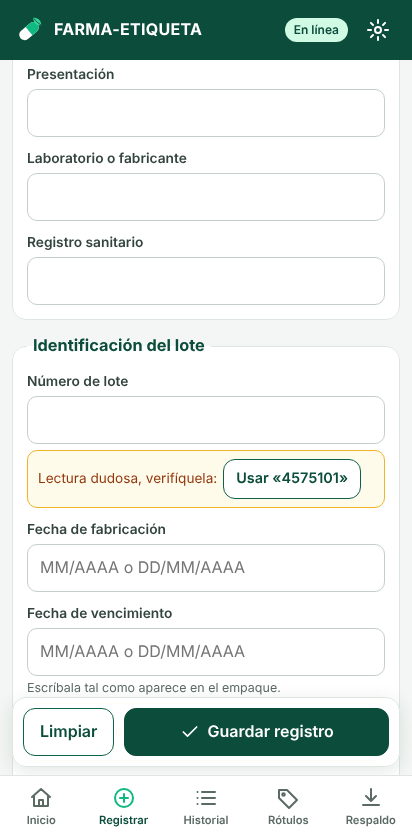
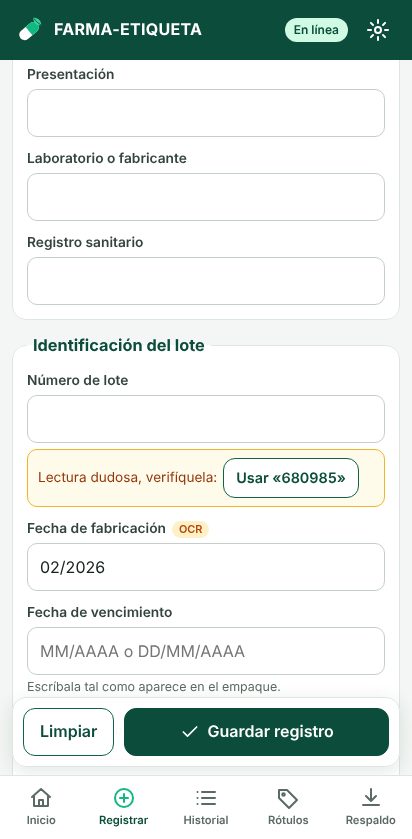
Publicar 1.11.0

diff --git a/js/form.js b/js/form.js
@@ -7,6 +7,7 @@ import { extractFields, extractZone, dateOK } from './extract.js';
 import { liveScan } from './live.js';
 import { readBoxes, mergeBoxes } from './boxes.js';
 import { readRelief, voteRelief, readReliefAuto } from './relief.js';
+import { readTiles } from './tiles.js';
 
 export const FIELDS = [
   ['nombre', 'Nombre del producto'], ['codigoBarras', 'Código de barras'], ['principioActivo', 'Principio activo'],
@@ -150,7 +151,7 @@ async function analyze(source, extras = true, side = 2600) {
     }
     if (!res) res = await recognize(canvas, busy);
     const o = { ...extractFields(res.lines), res, onlineErr };
-    if (extras) await morePasses(canvas, o, busy);
+    if (extras) await morePasses(canvas, o, busy, () => true, source);
     return o;
   } finally { freeCanvas(canvas); }
 }
@@ -158,7 +159,7 @@ async function analyze(source, extras = true, side = 2600) {
 // Lecturas adicionales solo si faltan lote o vencimiento: suelen estar impresos aparte, por puntos o con poco contraste.
 // alive() permite cancelarlas entre una lectura y otra (por ejemplo, si el usuario cambió de foto).
 const LD = ['lote', 'vencimiento', 'fechaFabricacion'];
-async function morePasses(canvas, o, prog, alive = () => true) {
+async function morePasses(canvas, o, prog, alive = () => true, hiSrc = null) {
   const miss = f => !o.fields.some(x => x.field === f && !x.doubt);
   const need = () => alive() && (miss('lote') || miss('vencimiento'));
   const merge = (r, note, doubt, anyHit = false) => {
@@ -172,6 +173,23 @@ async function morePasses(canvas, o, prog, alive = () => true) {
   // Primero las casillas impresas (L, F, V): recortes pequeños, rápidos de leer.
   if (alive()) { try { mergeBoxes(o.fields, await readBoxes(canvas, t => prog(t))); } catch { /* sin casillas legibles */ } if (!miss('vencimiento')) o.warnings = []; }
   if (need()) merge(await recognize(canvas, (t, f) => prog('Segunda lectura (lote y fechas)…', f), true), 'Detectado en una segunda lectura de la imagen.', false);
+  // Texto pequeño o aislado que la lectura de la página completa no detectó: lectura por partes ampliadas.
+  if (need()) {
+    try {
+      const t = await readTiles(canvas, x => prog(x), alive, hiSrc);
+      const e1 = extractFields(t.lines).fields, e2 = t.alt ? extractFields(t.alt).fields : [];
+      for (const f of LD) {
+        const a = e1.find(x => x.field === f), b = e2.find(x => x.field === f);
+        if (!miss(f) || !a) continue;
+        const differ = b && b.value.replace(/\s/g, '') !== a.value.replace(/\s/g, '');
+        const hit = { ...a, doubt: a.doubt || differ, checked: !(a.doubt || differ), alt: differ ? b.value : null,
+          notes: [...a.notes, 'Leído en una zona ampliada de la foto.', ...(differ ? [`Otra lectura de la misma zona dio «${b.value}»: confusión probable entre letras y números (B/8, O/0, G/6). Elija la que coincide con el empaque.`] : [])] };
+        o.fields = o.fields.filter(x => x.field !== f).concat(hit);
+        if (f === 'vencimiento') o.warnings = [];
+      }
+      o.res.text += '\n— Lectura por partes —\n' + t.lines.map(l => l.text).join('\n');
+    } catch { /* sin texto adicional */ }
+  }
   // Lote y fechas EN RELIEVE (troquelados sin tinta): siempre quedan pendientes de revisión, nunca se dan por seguros.
   if (need()) {
     try {
@@ -206,11 +224,11 @@ async function runOCR(extra = null) {
 
 // ---- Llenado automático: al elegir la foto el formulario se completa solo ----
 function clearSuggestions() { $$('#product-form .sugg').forEach(e => e.remove()); }
-function suggest(field, value, note) {
+function suggest(field, value, note, alt = null) {
   const box = input(field)?.parentElement; if (!box) return;
   box.querySelector('.sugg')?.remove();
-  box.append(h('div', { class: 'sugg' }, h('span', {}, note + ' '),
-    h('button', { type: 'button', class: 'btn small', onclick: e => { setField(field, value, 'ocr'); chips(); scheduleDraft(); e.target.closest('.sugg').remove(); } }, `Usar «${value}»`)));
+  const use = v => h('button', { type: 'button', class: 'btn small', onclick: e => { setField(field, v, 'ocr'); chips(); scheduleDraft(); e.target.closest('.sugg').remove(); } }, `Usar «${v}»`);
+  box.append(h('div', { class: 'sugg' }, h('span', {}, note + ' '), use(value), alt && alt !== value ? use(alt) : null));
 }
 export async function autoFill(tStart) {
   if (!st.photo) { toast('Primero seleccione una fotografía.', 'warn'); return; }
@@ -290,13 +308,13 @@ async function background(r, seq, missing) {
   let canvas;
   try {
     canvas = await withPhoto(src => blobToCanvas(src, 2600));
-    await morePasses(canvas, r, prog, alive);
+    await morePasses(canvas, r, prog, alive, st.src || st.photo?.blob);
   } catch { /* se informa abajo como «no encontrado» */ } finally { freeCanvas(canvas); }
   if (!alive()) return;
   const found = [];
   for (const f of r.fields.filter(x => LD.includes(x.field) && !before.has(x.field))) {
     if (input(f.field).value.trim()) continue;                       // nunca pisa lo que ya escribió o aceptó el usuario
-    if (f.doubt) suggest(f.field, f.value, 'Lectura dudosa, verifíquela:'); else { setField(f.field, f.value, 'ocr'); found.push(label[f.field]); }
+    if (f.doubt) suggest(f.field, f.value, f.alt ? 'Dos lecturas posibles, elija la que coincide con el empaque:' : 'Lectura dudosa, verifíquela:', f.alt); else { setField(f.field, f.value, 'ocr'); found.push(label[f.field]); }
   }
   chips(); scheduleDraft();
   const hasSugg = k => !!input(k).parentElement.querySelector('.sugg');

diff --git a/js/extract.js b/js/extract.js
@@ -91,9 +91,23 @@ export function boxLabels(lines) {
 const clean = s => s.replace(/\s+/g, ' ').replace(/^[\s:.\-–|]+|[\s:.\-–|,;]+$/g, '').trim();
 const LOW = 60, OK = 80;
 
+const MFIX = [[/\bAG[O0Q](?=[\s\/\-.]?\d{2,4}\b)/gi, 'AGO'], [/\bA6[O0](?=[\s\/\-.]?\d{2,4}\b)/gi, 'AGO'], [/\b[O0]CT(?=[\s\/\-.]?\d{2,4}\b)/gi, 'OCT'], [/\bN[O0]V(?=[\s\/\-.]?\d{2,4}\b)/gi, 'NOV'],
+  [/\bF[E3]B(?=[\s\/\-.]?\d{2,4}\b)/gi, 'FEB'], [/\bS[E3]P(?=[\s\/\-.]?\d{2,4}\b)/gi, 'SEP'], [/\bD[I1l]C(?=[\s\/\-.]?\d{2,4}\b)/gi, 'DIC'], [/\bEN[E3](?=[\s\/\-.]?\d{2,4}\b)/gi, 'ENE']];
+// Mes escrito con letras (FEB, FEBRERO, AGO, AUG…) → número: «FEB2026» → «02/2026», «15 MAR 2027» → «15/03/2027».
+// El año se deja tal como está impreso. Si no hay mes en letras, la fecha se devuelve sin cambios.
+const MNUM = { ENE: 1, JAN: 1, FEB: 2, MAR: 3, ABR: 4, APR: 4, MAY: 5, JUN: 6, JUL: 7, AGO: 8, AUG: 8, SEP: 9, SET: 9, OCT: 10, NOV: 11, DIC: 12, DEC: 12 };
+export function monthToNumber(s) {
+  const w = (s.match(/[A-Za-zÁÉÍÓÚáéíóú]{3,}/) || [''])[0], n = MNUM[w.slice(0, 3).toUpperCase()];
+  if (!n) return s;
+  const nums = s.match(/\d+/g) || [], year = nums[nums.length - 1];
+  if (!year || year.length < 2) return s;
+  const before = s.slice(0, s.indexOf(w)).match(/\d{1,2}/);
+  return (before ? before[0].padStart(2, '0') + '/' : '') + String(n).padStart(2, '0') + '/' + year;
+}
+const fixMonth = t => MFIX.reduce((s, [re, m]) => s.replace(re, m), t);
 const unspace = t => t.replace(/(^|[\s:])([0-9](?: [0-9A-Z\/\-.]){3,})(?=$|\s)/g, (m, a, b) => /\d.*\d/.test(b) ? a + b.replace(/ /g, '') : m);
 export function extractFields(lines) {
-  lines = boxLabels(lines.map(l => ({ text: unspace((l.text || '').replace(/\s+/g, ' ').trim()), conf: l.conf ?? null, height: l.height || 0 })))
+  lines = boxLabels(lines.map(l => ({ text: fixMonth(unspace((l.text || '').replace(/\s+/g, ' ').trim())), conf: l.conf ?? null, height: l.height || 0 })))
     .map(l => ({ ...l, text: clean(l.text) })).filter(l => l.text.length > 1);
   // Rótulos en tabla: una fila de encabezados («LOTE  FAB  VENCE») y debajo la fila de valores. Se reordenan como «etiqueta: valor».
   for (let i = 0; i + 1 < lines.length; i++) {
@@ -113,6 +127,10 @@ export function extractFields(lines) {
   const out = [], used = new Set(), warnings = [];
   const add = (field, label, value, i, notes = [], forceDoubt = false) => {
     value = clean(value); if (!value) return;
+    if (field === 'vencimiento' || field === 'fechaFabricacion') {
+      const num = monthToNumber(value);
+      if (num !== value) { notes = [...notes, `En el empaque dice «${value}» (mes en letras): se convirtió a número.`]; value = num; }
+    }
     const conf = lines[i]?.conf ?? null;
     // Una fecha con mes o año imposibles («85/2027») es una lectura errónea: se muestra, pero nunca se premarca.
     if ((field === 'vencimiento' || field === 'fechaFabricacion') && ym(value) == null) { notes.push('La fecha leída no parece válida (mes o año fuera de rango): probablemente está mal leída.'); forceDoubt = true; }
@@ -248,7 +266,7 @@ export function extractFields(lines) {
 
   // --- Nombre: la línea de texto más grande entre las legibles que no son lote/fecha/registro/laboratorio ---
   const letters = s => (s.match(/[A-Za-zÁÉÍÓÚÑáéíóúñ]/g) || []).length;
-  const cand = lines.map((l, i) => ({ l, i })).filter(({ l, i }) => !used.has(i) && !HEAD.some(([, re]) => re.test(l.text)) && letters(l.text) >= 3 && letters(l.text) / l.text.length > .55 && (l.conf == null || l.conf >= LOW));
+  const cand = lines.map((l, i) => ({ l, i })).filter(({ l, i }) => !used.has(i) && !HEAD.some(([, re]) => re.test(l.text)) && letters(l.text) >= 3 && letters(l.text) / l.text.length > .55 && l.text.length <= 45 && l.text.split(' ').length <= 6 && (l.conf == null || l.conf >= LOW));
   let nameI = -1;
   if (cand.length) {
     const best = cand.reduce((a, b) => (b.l.height > a.l.height * 1.05 ? b : a));
@@ -297,7 +315,7 @@ function fixLabels(text) {
 const ZKEY = /^(LOTE?|LOT|BATCH|VENCE|VENC|VTO|EXP|CAD|FAB|MFG|MFD|ELAB|FECHA|DATE|DE|NO|N[°º]?)$/i;
 // Devuelve {lote, fechaFabricacion, vencimiento}: cada uno {value, labelled} o ausente.
 export function extractZone(lines) {
-  const ls = boxLabels(lines.map(l => ({ ...l, text: unspace((l.text || '').replace(/\s+/g, ' ').trim()) }))).map(l => ({ ...l, text: fixLabels(clean(l.text)) })).filter(l => l.text.length > 1);
+  const ls = boxLabels(lines.map(l => ({ ...l, text: fixMonth(unspace((l.text || '').replace(/\s+/g, ' ').trim())) }))).map(l => ({ ...l, text: fixLabels(clean(l.text)) })).filter(l => l.text.length > 1);
   const out = {};
   for (const f of extractFields(ls).fields) if (['lote', 'fechaFabricacion', 'vencimiento'].includes(f.field) && !f.doubt && !out[f.field]) out[f.field] = { value: f.value, labelled: true };
   // Sin etiqueta legible: en la zona marcada, las fechas válidas y el código alfanumérico restante son los candidatos.
@@ -319,6 +337,7 @@ export function extractZone(lines) {
     const tok = rest.split(/[\s:;,|]+/).map(t => t.replace(/^[.\-]+|[.\-]+$/g, '')).find(t => /^[A-Z0-9][A-Z0-9\-\/]{2,15}$/i.test(t) && /\d/.test(t) && !ZKEY.test(t));
     if (tok) out.lote = { value: tok };
   }
+  for (const f of ['fechaFabricacion', 'vencimiento']) if (out[f]) out[f].value = monthToNumber(out[f].value);
   return out;
 }
 export const dateOK = s => ym(s) != null;

diff --git a/js/tiles.js b/js/tiles.js
@@ -1,0 +1,61 @@
+// Texto pequeño y aislado (lote y fechas impresos junto al código de barras, en una esquina…): la lectura de la página
+// completa a veces ni lo detecta. Aquí la foto se lee por partes ampliadas (cuadrícula con solape), saltando las zonas
+// lisas. Si aparecen renglones de lote o fechas, esa zona se recorta, se amplía y se lee de nuevo con dos tratamientos
+// (normal y realzado) para detectar confusiones típicas (B/8, O/0, G/6): si las dos lecturas difieren, el dato queda dudoso.
+import { recognize } from './ocr.js';
+import { enhance, freeCanvas } from './photos.js';
+
+const LABEL = /(?:^|[\s\[\(|])(?:[LFV](?=\s?[\]\)|]?\s?[.:\-]\s?\S)|L[O0]TE?|BATCH|VENC\w*|VENCE|VTO|EXP\w*|CAD\w*|FAB\w*|ELAB\w*|MFG)/i;
+
+// ¿Tiene la zona bordes suficientes para contener texto? (descarta fondos lisos o desenfocados).
+function busy(src, x, y, w, h) {
+  const c = document.createElement('canvas'), k = Math.min(1, 220 / Math.max(w, h));
+  c.width = Math.max(2, Math.round(w * k)); c.height = Math.max(2, Math.round(h * k));
+  const cx = c.getContext('2d', { willReadFrequently: true }); cx.drawImage(src, x, y, w, h, 0, 0, c.width, c.height);
+  const d = cx.getImageData(0, 0, c.width, c.height).data; let e = 0;
+  for (let i = 4; i < d.length; i += 4) if (Math.abs(d[i] - d[i - 4]) > 40) e++;
+  c.width = c.height = 0;
+  return e / (c.width * c.height || (d.length / 4)) > 0.015;
+}
+function crop(src, x, y, w, h, k) {
+  const c = document.createElement('canvas'); c.width = Math.round(w * k); c.height = Math.round(h * k);
+  const cx = c.getContext('2d'); cx.imageSmoothingQuality = 'high'; cx.drawImage(src, x, y, w, h, 0, 0, c.width, c.height);
+  return c;
+}
+
+// Devuelve { lines, alt } — alt: lectura realzada de la zona de lote/fechas (null si no se encontró esa zona).
+// hi: la misma foto a resolución completa (Blob), para releer la zona de lote y fechas con todo el detalle.
+export async function readTiles(src, progress = () => {}, alive = () => true, hi = null, cols = 2, rows = 3) {
+  const W = src.width, H = src.height, tw = W / cols * 1.2, th = H / rows * 1.2, K = 2, all = [];
+  let n = 0;
+  for (let r = 0; r < rows; r++) for (let c = 0; c < cols; c++) {
+    if (!alive()) return { lines: all, alt: null };
+    n++;
+    const x = Math.max(0, Math.min(W - tw, c * W / cols - tw * 0.08)), y = Math.max(0, Math.min(H - th, r * H / rows - th * 0.08));
+    if (!busy(src, x, y, tw, th)) continue;
+    progress(`Leyendo la foto por partes (${n} de ${cols * rows})…`);
+    const cv = crop(src, x, y, tw, th, K);
+    try {
+      const res = await recognize(cv, () => {}, '11');
+      for (const l of res.lines) all.push({ ...l, box: l.bbox && { x: x + l.bbox.x0 / K, y: y + l.bbox.y0 / K, x1: x + l.bbox.x1 / K, y1: y + l.bbox.y1 / K } });
+    } finally { freeCanvas(cv); }
+  }
+  // Zona de lote y fechas: renglones con etiqueta (L. F. V. LOTE VENCE…) cercanos entre sí.
+  const lab = all.filter(l => l.box && LABEL.test(l.text) && /\d/.test(l.text));
+  if (!lab.length || !alive()) return { lines: all, alt: null };
+  const lh = Math.max(...lab.map(l => l.box.y1 - l.box.y)) || 20;
+  const ref = lab[0].box, near = lab.filter(l => Math.abs(l.box.y - ref.y) < lh * 6 && Math.abs(l.box.x - ref.x) < lh * 12);
+  const x0 = Math.min(...near.map(l => l.box.x)) - lh, y0 = Math.min(...near.map(l => l.box.y)) - lh;
+  const x1 = Math.max(...near.map(l => l.box.x1)) + lh, y1 = Math.max(...near.map(l => l.box.y1)) + lh;
+  const rx = Math.max(0, x0), ry = Math.max(0, y0), rw = Math.min(W, x1) - rx, rh = Math.min(H, y1) - ry;
+  progress('Releyendo lote y fechas ampliados…');
+  let big = null, s = 1;
+  try { if (hi instanceof Blob) { big = await createImageBitmap(hi); s = big.width / W; if (s < 1.05) { big.close(); big = null; s = 1; } } } catch { big = null; s = 1; }
+  const k = Math.min(4, 45 / (lh * s));                        // renglones de ~45 px: el tamaño que mejor lee Tesseract
+  const zc = crop(big || src, rx * s, ry * s, rw * s, rh * s, k), ec = enhance(zc);
+  big?.close();
+  try {
+    const a = await recognize(zc, () => {}, '6'), b = await recognize(ec, () => {}, '6');
+    return { lines: [...a.lines, ...all], alt: b.lines };
+  } finally { freeCanvas(zc); freeCanvas(ec); }
+}

diff --git a/sw.js b/sw.js
@@ -3,12 +3,12 @@
 // - Guarda los recursos OCR la primera vez que se usan (caché separada que NO se borra al actualizar).
 // - Nunca toca IndexedDB: actualizar la aplicación no elimina registros ni fotografías.
 // Para publicar una versión nueva, cambie VERSION.
-const VERSION = '1.10.0';
+const VERSION = '1.11.0';
 const SHELL = 'fe-shell-' + VERSION;
 const OCR = 'fe-ocr-v2';
 const FILES = [
   './', 'index.html', 'manifest.webmanifest', 'css/app.css',
-  'js/app.js', 'js/ui.js', 'js/db.js', 'js/photos.js', 'js/ocr.js', 'js/extract.js', 'js/form.js', 'js/live.js', 'js/boxes.js', 'js/relief.js',
+  'js/app.js', 'js/ui.js', 'js/db.js', 'js/photos.js', 'js/ocr.js', 'js/extract.js', 'js/form.js', 'js/live.js', 'js/boxes.js', 'js/relief.js', 'js/tiles.js',
   'js/history.js', 'js/labels.js', 'js/labelsview.js', 'js/backup.js', 'js/settings.js',
   'icons/icon.svg', 'icons/icon-192.png', 'icons/icon-512.png', 'icons/apple-touch-icon.png',
   'vendor/lib/JsBarcode.all.min.js', 'vendor/lib/jspdf.umd.min.js', 'vendor/lib/docx.iife.min.js',

diff --git a/js/boxes.js b/js/boxes.js
@@ -6,7 +6,7 @@
 // 4) Si algo no es seguro (letra dudosa, valor dudoso, letras repetidas con valores distintos, fabricación ≥ vencimiento),
 //    el dato queda pendiente de revisión: nunca se intercambian ni se completan valores.
 import { recognize } from './ocr.js';
-import { ym, findDates, lotOK } from './extract.js';
+import { ym, findDates, lotOK, monthToNumber } from './extract.js';
 
 const FIELD = { L: ['lote', 'Número de lote'], F: ['fechaFabricacion', 'Fecha de fabricación'], V: ['vencimiento', 'Fecha de vencimiento'] };
 const MAX_BOXES = 8;
@@ -91,7 +91,7 @@ function parseValue(letter, text) {
   const t = clean(text);
   if (letter === 'L') return lotOK(t);
   const d = findDates(t).find(m => ym(m[0]) != null);
-  return d && d.index <= 3 ? d[0] : null;
+  return d && d.index <= 3 ? monthToNumber(d[0]) : null;
 }
 
 // Lee las casillas de la imagen. Devuelve campos con el formato de extractFields: {field, label, value, conf, doubt, notes}.

diff --git a/js/ocr.js b/js/ocr.js
@@ -52,7 +52,7 @@ async function recognizeNow(canvas, progress = () => {}, sparse = false, extra =
     const { data } = await w.recognize(canvas, {}, { text: true, blocks: true });
     const lines = [];
     for (const b of data.blocks || []) for (const p of b.paragraphs || []) for (const l of p.lines || [])
-      lines.push({ text: l.text, conf: l.confidence, height: l.bbox ? l.bbox.y1 - l.bbox.y0 : 0 });
+      lines.push({ text: l.text, conf: l.confidence, height: l.bbox ? l.bbox.y1 - l.bbox.y0 : 0, bbox: l.bbox || null });
     if (!lines.length && data.text) data.text.split('\n').forEach(t => lines.push({ text: t, conf: data.confidence ?? null, height: 0 }));
     return { text: data.text || '', confidence: data.confidence ?? null, lines };
   } catch (e) {

diff --git a/js/settings.js b/js/settings.js
@@ -4,7 +4,7 @@ const appName = () => nativePlatform() === 'ios' ? 'App iPhone / iPad' : 'App An
 import * as db from './db.js';
 import { initOCR, recognizeOnline, OCR_BASE, OCR_CORES } from './ocr.js';
 
-export const APP_VERSION = '1.10.0';
+export const APP_VERSION = '1.11.0';
 const standalone = () => matchMedia('(display-mode: standalone)').matches || navigator.standalone === true;
 const secure = () => self.isSecureContext && 'serviceWorker' in navigator && 'caches' in self;
 let installEvt = null, swReg = null;

diff --git a/js/photos.js b/js/photos.js
@@ -2,7 +2,7 @@
 const MAX_BYTES = 30 * 1024 * 1024;
 const MAX_SIDE = 1800;   // lado mayor de la fotografía guardada
 const QUALITY = 0.82;
-const READ_SIDE = 2600;  // copia en memoria para leer texto y códigos (no se guarda)
+const READ_SIDE = 4000;  // copia en memoria para leer texto pequeño a resolución completa (no se guarda)
 
 async function sniff(file) {
   const b = new Uint8Array(await file.slice(0, 12).arrayBuffer());

diff --git a/README.md b/README.md
@@ -15,6 +15,7 @@ Aplicación web progresiva (PWA) para identificar, registrar y rotular medicamen
 | Pantalla principal | Solo tres opciones: **Escanear fotografía**, **Crear rótulo** e **Historial** (respaldo y configuración quedan en la barra inferior y el engranaje). El lector de códigos de barras se eliminó en la 1.6.0; el código se puede escribir a mano y se dibuja en el rótulo. |
 | Casillas L / F / V | Reconoce casillas impresas con una sola letra (L = lote, F = fabricación, V = vencimiento): por texto («[L] 4B0123», «|V| 05/2027», letras arriba y valores abajo) y por imagen (detecta los recuadros, lee cada letra aparte con contraste aumentado y lee el valor a la derecha o debajo). Si la letra o el valor no son seguros, si se repite una letra con valores distintos o si la fabricación no es anterior al vencimiento, el dato queda pendiente de revisión; nunca se intercambian valores. |
 | Lote y vencimiento en relieve | Para códigos troquelados sin tinta (blanco sobre blanco, caracteres espaciados): realce del relieve (detalle local + umbral con histéresis), detección de renglones, compactación de caracteres, lectura en varias escalas con votación y recorte automático de la zona. Lo leído en relieve SIEMPRE queda como sugerencia pendiente de revisión. Probado con una foto real: vencimiento 09/2027 correcto; el lote salió con el primer dígito errado (4575101 en vez de 1575101), por eso nunca se llena solo. |
+| Meses en letras y texto pequeño | Fechas con el mes en letras (FEB, FEBRERO, AGO, AUG, ENERO…) se convierten a número (FEB2026 → 02/2026, 15 MAR 2025 → 15/03/2025); las numéricas quedan como están. Corrige confusiones del OCR en el mes (AG0 → AGO). Si el lote y las fechas son pequeños o están aislados, la foto se lee por partes ampliadas y la zona encontrada se relee a resolución completa con dos tratamientos; si difieren, el dato queda dudoso. |
 | Escáner en vivo | Cámara trasera con recuadro guía; un dato se confirma cuando se lee igual varias veces (lote y fechas: 3). Muestra el texto visto, permite aceptar un dato tocándolo y ofrece «Tomar foto y leer». |
 | OCR | Tesseract.js (español + inglés), local. Propone nombre, principio activo, concentración, forma, presentación, laboratorio/fabricante, registro sanitario, lote y vencimiento en una **pantalla de revisión** con confianza, avisos de duda y corrección manual. |
 | Historial | Búsqueda (nombre, principio activo, lote, código, laboratorio), filtros, detalle con foto, edición, eliminación con confirmación, trazabilidad de cambios. |

diff --git a/docs/resultado-pruebas.md b/docs/resultado-pruebas.md
@@ -1,6 +1,6 @@
 # Resultado de las pruebas automáticas
 
-Ejecución: 2026-11-12 00:18 UTC · Chromium 153.0.8010.12 · emulación Pixel 7 (Android).
+Ejecución: 2026-11-12 01:19 UTC · Chromium 153.0.8010.12 · emulación Pixel 7 (Android).
 
 | Estado | Comprobación | Detalle |
 |---|---|---|
@@ -77,7 +77,7 @@ Ejecución: 2026-11-12 00:18 UTC · Chromium 153.0.8010.12 · emulación Pixel 7
 | OK | Tiempo de lectura medido y mostrado (objetivo ≤ 10 s) | 0.4 s medidos por la app |
 | OK | Lo escrito a mano no se reemplaza: lo leído queda como sugerencia |  |
 | OK | Tocar la sugerencia la aplica |  |
-| OK | Lote y fechas faltantes se buscan en segundo plano sin bloquear la pantalla | Buscando texto en relieve… (puede seguir revisando el formulario) |
+| OK | Lote y fechas faltantes se buscan en segundo plano sin bloquear la pantalla | Leyendo la foto por partes (1 de 6)… (puede seguir revisando el formulario) |
 | OK | Al terminar informa lo que no encontró y no inventa lote ni vencimiento |  |
 | OK | Casillas [L] [F] [V]: cada valor va a su campo, sin intercambiarse | {"lote":"4B0123","fechaFabricacion":"05/2024","vencimiento":"05/2027"} |
 | OK | En vivo: nombre, lote y vencimiento se confirman leyéndolos varias veces | 0.2 s · ✓ Nombre: CALMADOL \| ✓ Concentración: 500 mg \| ✓ Lote: AB12345 \| ✓ Vencimiento: 05/2027 |
